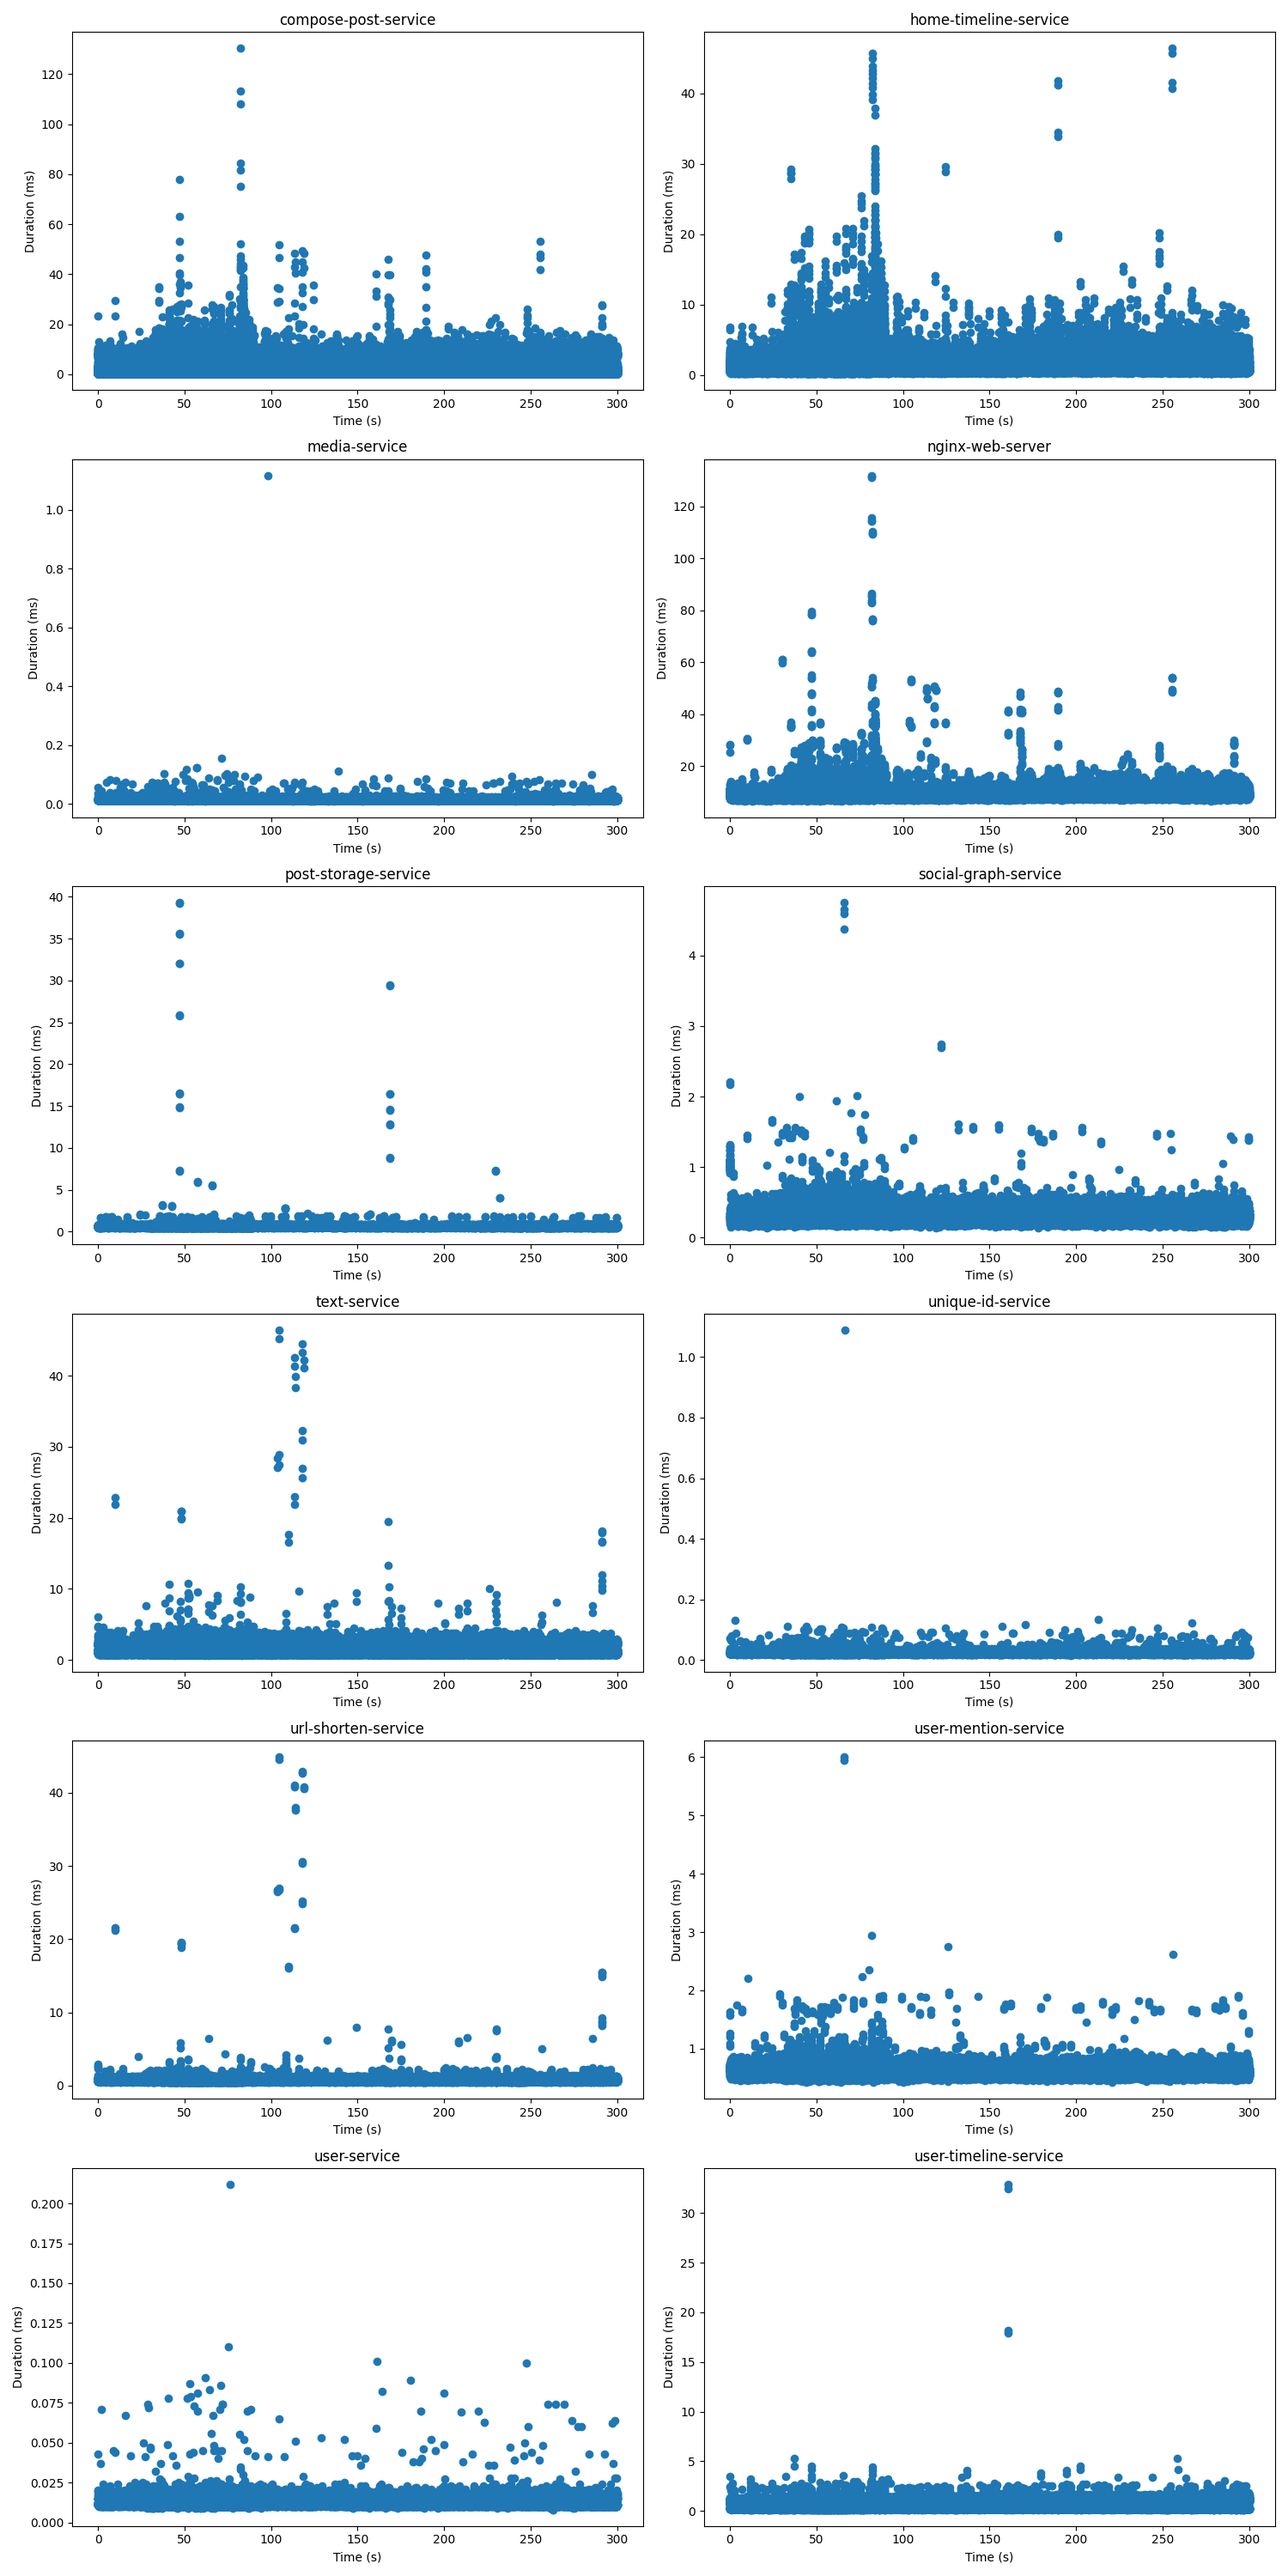
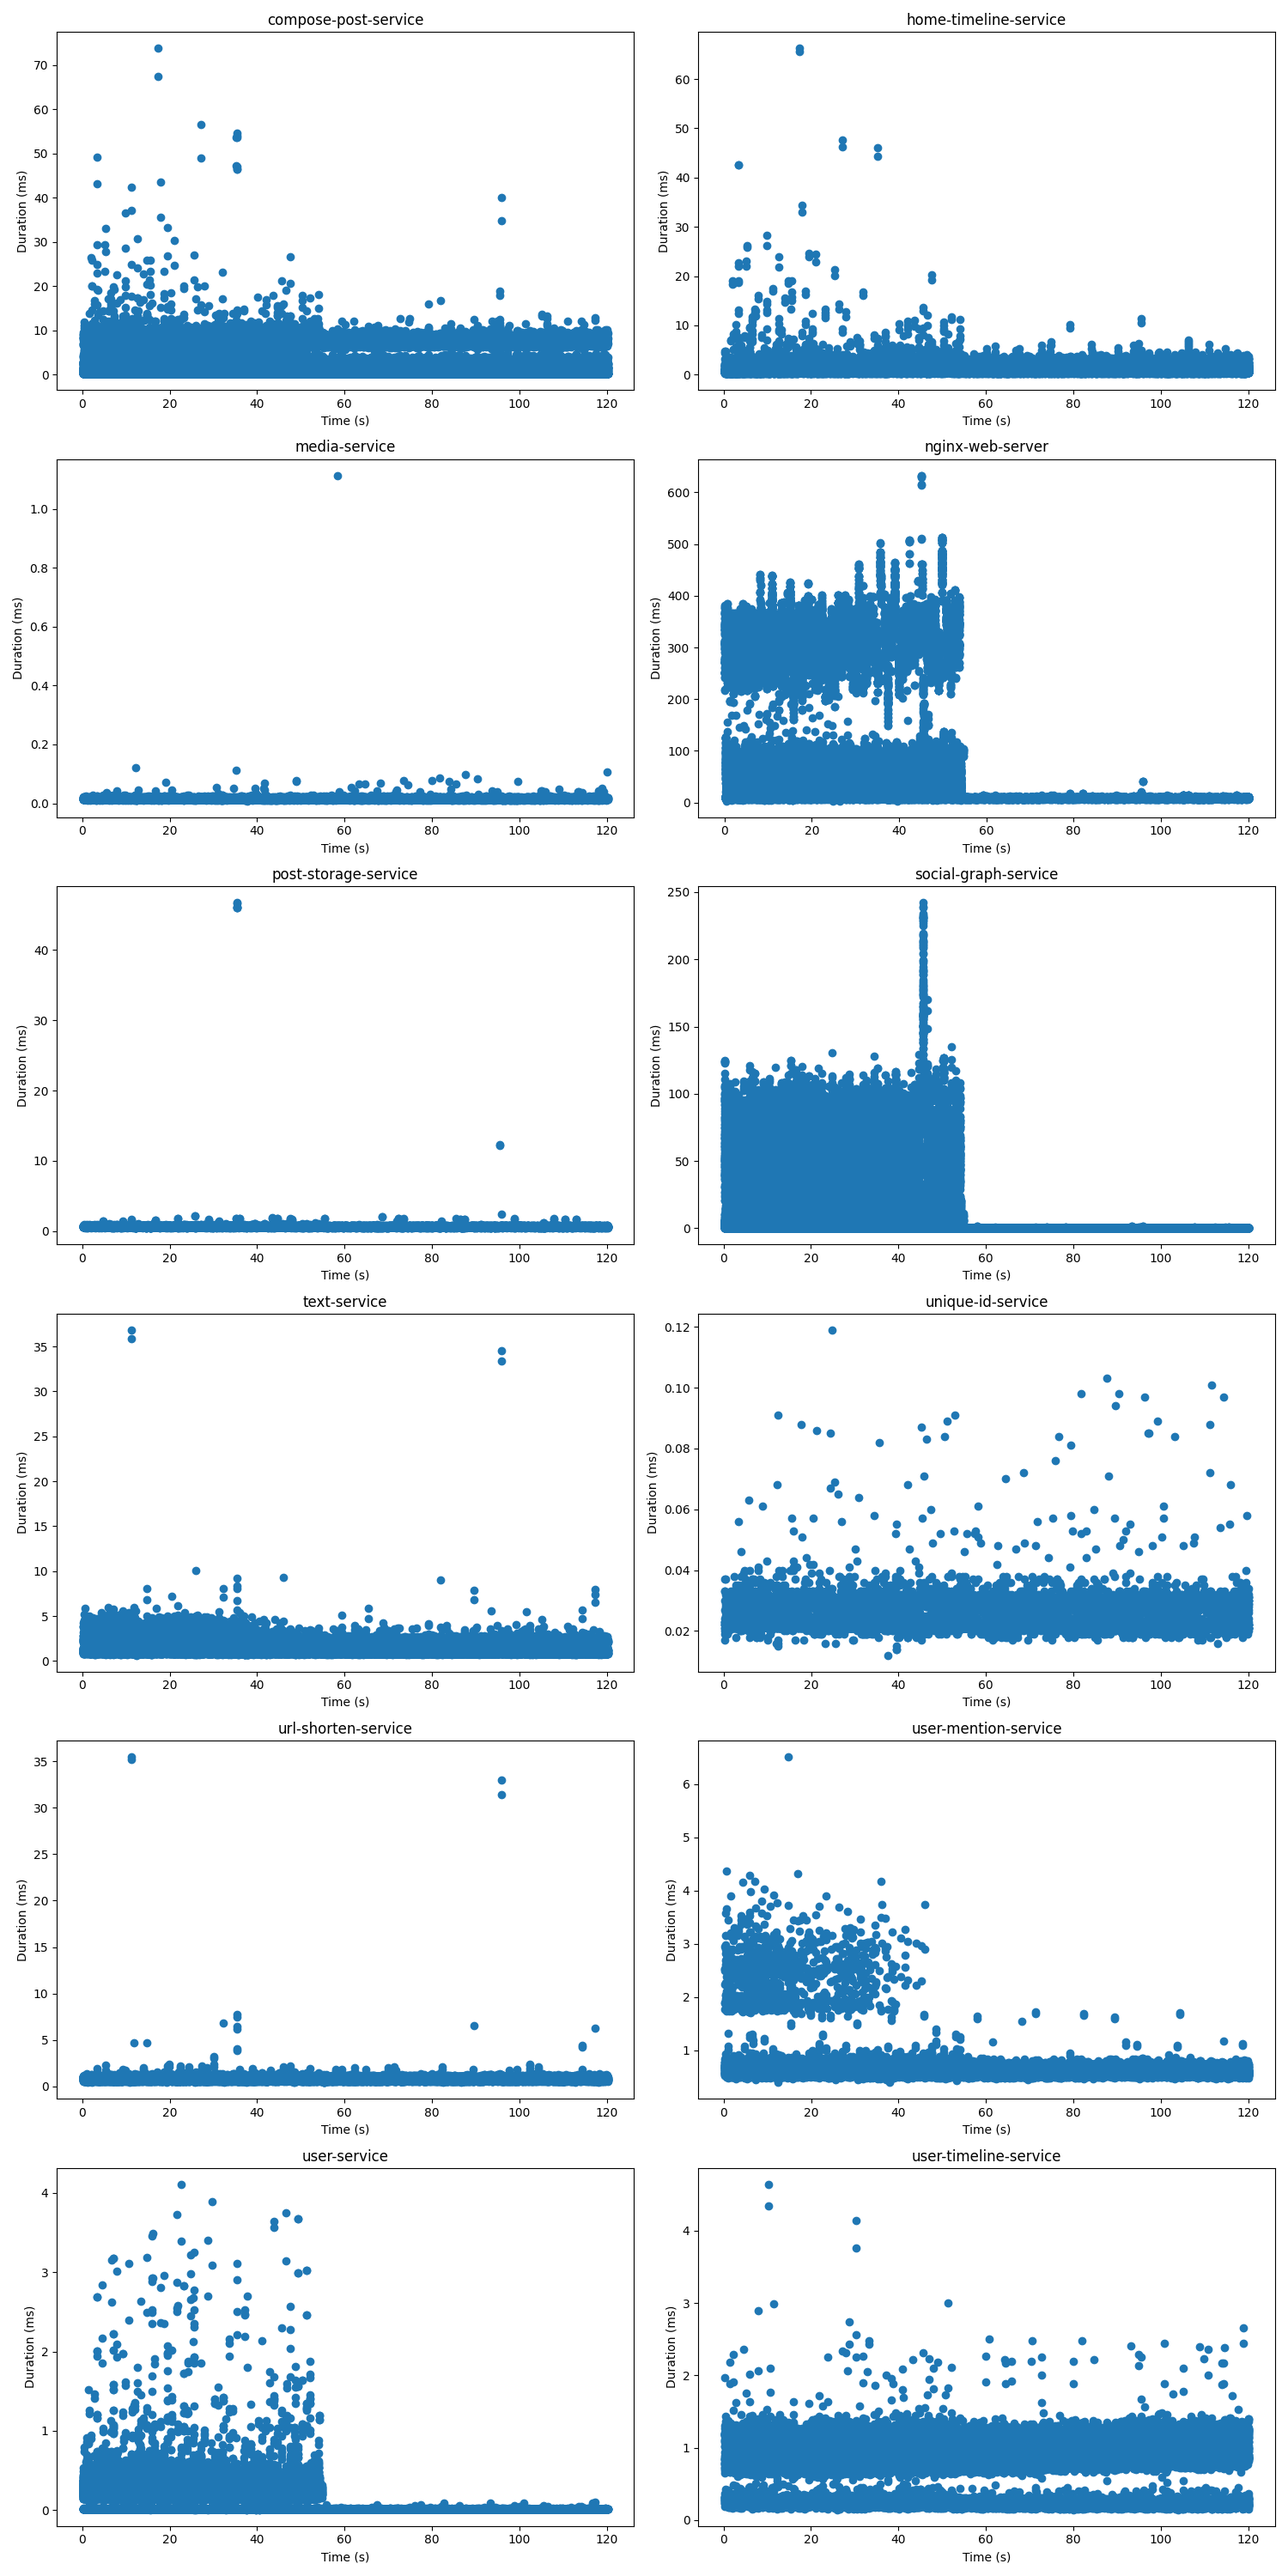
Modify load and add tail-latency

diff --git a/109-Load/latency_socialNetwork.py b/109-Load/latency_socialNetwork.py
@@ -44,7 +44,8 @@ def fetch_traces(jaeger_url, service_name, start_time, end_time):
     return all_traces
 
 def run_load():
-    commandToRunLoad1 = "../wrk2/wrk -D exp -t 1 -c 4 -d 200s -L -p -s ./wrk2/scripts/social-network/compose-post.lua http://10.90.36.43:8080/wrk2-api/post/compose -R 500"
+    #commandToRunLoad1 = "../wrk2/wrk -D exp -t 1 -c 4 -d 120s -L -p -s ./wrk2/scripts/social-network/compose-post.lua http://localhost:8080/wrk2-api/post/compose -R 500"
+    commandToRunLoad1 = "../wrk2/wrk -D exp -t 1 -c 4 -d 120s -L -p -s ./wrk2/scripts/social-network/compose-post.lua http://10.90.36.43:8080/wrk2-api/post/compose -R 500"
 
     print("Start running load")
 
@@ -93,7 +94,7 @@ def run_load_qos():
     return start_time, end_time
 
 
-def create_graphes(data):
+def create_latency_graph(data):
     spans = []
     for trace in data:
         processes = {process_id: process_info['serviceName'] for process_id, process_info in trace['processes'].items()}
@@ -134,10 +135,32 @@ def create_graphes(data):
 
     plt.tight_layout()
     plt.savefig('sn_graph.png')
+
+def create_tail_latency_graph():
+    col_name = ["tail_latency"]
+    df = pd.read_fwf('../../DeathStarBenchCS', names=col_name)
+    df.insert(0, 'time', range(0, 0 + len(df)))
+    # Replace any character that is not a digit or period with an empty string
+    df['tail_latency'] = df['tail_latency'].astype(str).str.replace(r'[^\d.]', '', regex=True)
+
+    # Convert the cleaned strings back to numeric type, use errors='coerce' to handle any remaining non-numeric entries
+    df['tail_latency'] = pd.to_numeric(df['tail_latency'], errors='coerce').dropna()
+    df['tail_latency'] = (df['tail_latency'] / 1000).round(2)
+    df['time'] = (df['time'] / 5).round(1)
+
+    # Plotting
+    plt.figure(figsize=(10, 6))
+    plt.plot(df['time'], df['tail_latency'], marker='o')
+    plt.xlabel('Time (s)')
+    plt.ylabel('Average Latency (ms)')
+    plt.title('99th Percentile Tail Latency')
+    plt.yscale("log")
     
-    return pd.DataFrame(spans)
+    plt.grid(True)
+    plt.savefig('sn_tail_latency.png', format='png', dpi=300)
 
 def main():
+    #jaeger_url = 'http://localhost:16686'
     jaeger_url = 'http://10.90.36.43:16686'
     service_name = 'nginx-web-server'
     #commandToStartDocker = "./start_socialnetwork"
@@ -150,11 +173,12 @@ def main():
     #    print('STDERR:', stderr.decode())
     #    exit(1)  # Exit the script with an error code
 
-    start_time, end_time = run_load_qos()
+    start_time, end_time = run_load()
 
     traces = fetch_traces(jaeger_url, service_name, start_time, end_time)
 
-    df_traces = create_graphes(traces)
+    create_latency_graph(traces)
+    create_tail_latency_graph()
     
 if __name__ == '__main__':
     main()
